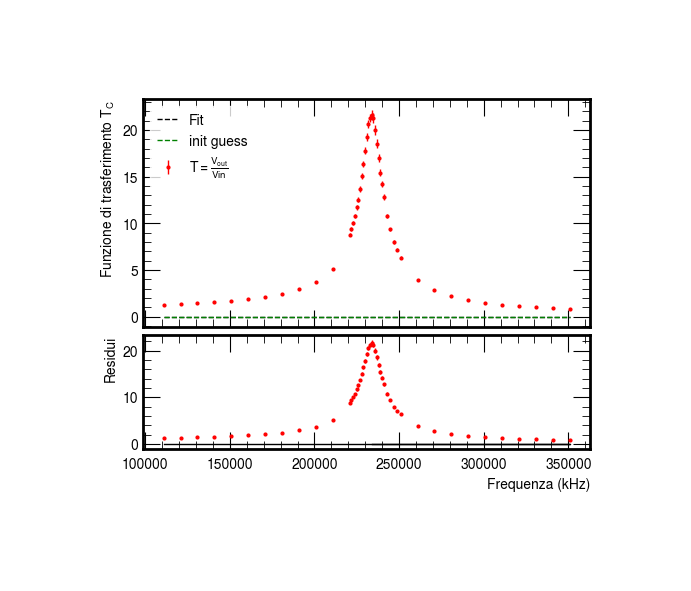
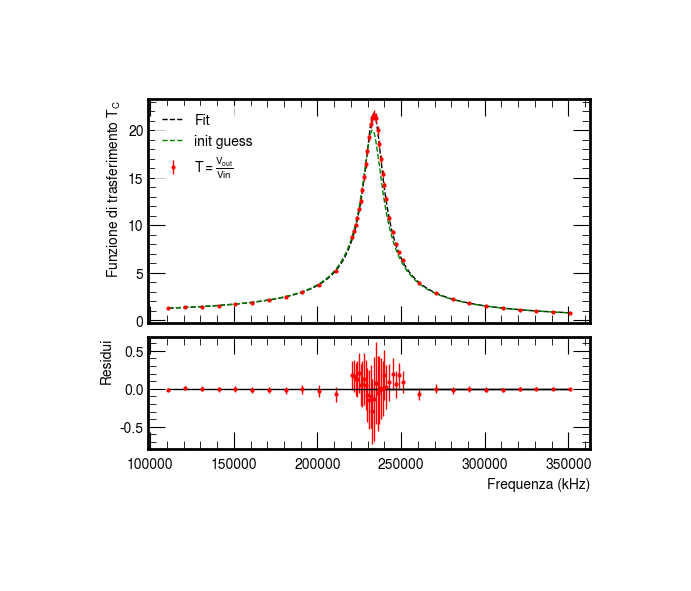
pu

diff --git a/RLC freq/mari/passabasso.py b/RLC freq/mari/passabasso.py
@@ -14,9 +14,9 @@ inputname = 'passabasso.txt'
 
 # 
 
-def fitf_R(x, A_p, B, C):
-    omega = 2.0 * np.pi * x 
-    fitval = A_p / np.sqrt(1+C**2*(omega**2/B**2-B**2/omega**2)**2)
+def fitf_C(x, Av, B, C):
+    omega = 2.0 * np.pi * x
+    fitval = Av / np.sqrt((1-omega**2/B**2)**2+1/C**2*omega**2/B**2)
     return fitval
 
 df = pd.read_csv(inputname, delimiter='\t', decimal='.')
@@ -28,7 +28,6 @@ A = v_out / v_in
 #phi = 2*np.pi*f*np.array(df['Dt_(ns)'].values[:]*1e-9)
 v_fs_in = np.array(df['scala_Vin_(mV)'].values*10**-3)[:]
 v_fs_out = np.array(df['scala_Vout_(V)'].values)[:]
-#phi_fs = 2*np.pi*f*np.array(df['scala_t_(ns)'].values[:]*1e-9)
 
 letturaV = 0.1*0.41
 errscalaV = 0.03*0.41
@@ -37,37 +36,33 @@ eVo = np.sqrt((letturaV * v_fs_out)**2 + (errscalaV * v_out)**2)
 eVin = np.sqrt((letturaV * v_fs_in)**2 + (errscalaV * v_in)**2)
 
 sigma_A = A * np.sqrt((eVo / v_out)**2 + (eVin / v_in)**2)
-phi_errL = 0
+
 f_0 = 235000
 fdelta = max(A)/np.sqrt(2)
 
-#Ainit= 0.95
-#Binit =  2.0 * np.pi *233000.  # Hz
-#Cinit = 10. # Hz
+Avinit= 0.95
+Binit =  2.0 * np.pi *233000.  # Hz
+Cinit = 10. # Hz
 
-
-
-#popt, pcov = curve_fit(fitf_R, f, A, p0=[Ainit, Binit, Cinit], sigma=sigma_A, absolute_sigma=True)
-popt, pcov = curve_fit(fitf_R, f, A, sigma=sigma_A, absolute_sigma=True)
-
+popt, pcov = curve_fit(fitf_C, f, A, p0=[Avinit, Binit, Cinit], sigma=sigma_A, absolute_sigma=True)
+ampiezza, f0_stima, Qvalue = popt
+f0_stima = f0_stima / (2.0 * np.pi) 
 perr = np.sqrt(np.diag(pcov))
-print( ' ampiezza = {a:.3f} +/- {b:.3f} \n omega0 = {c:.1f} +/- {d:.1f} kHz \n Q-valore = {e:.1f} +/- {f:.1f}'.format(a=popt[0], b=perr[0],c=popt[1]/(1000*2*np.pi),d=perr[1]/1000,e=popt[2],f=perr[2]))
+ampiezza_err, f0_stima_err, Qvalue_err = perr
+print( ' ampiezza = {a:.3f} +/- {b:.3f} \n f_0 = {c:.1f} +/- {d:.1f} kHz \n Q-valore = {e:.1f} +/- {f:.1f}'.format(a=ampiezza, b=ampiezza_err,c=f0_stima/(1000), d=f0_stima_err/1000, e=Qvalue, f=Qvalue_err))
 
-
+fit_f = np.linspace(min(f), max(f), 1000)
 plt.errorbar(f, A, yerr=sigma_A, fmt='o',ms=5, color='blue')
 plt.xscale('log')
 plt.yscale('log')
-#plt.plot(f, fitf_R(f, *popt), color='red', lw=1.5, label='fit')
-plt.vlines(f_0, 0, max(A), colors='red', linestyles='--', lw=1.5)
+plt.plot(fit_f, fitf_C(fit_f, *popt), color='red', lw=1.5, label='fit')
+plt.vlines(f0_stima, 0, max(A), colors='red', linestyles='--', lw=1.5)
 plt.hlines(fdelta, min(f), max(f), colors='green', linestyles='--', lw=1.5)
-#plt.errorbar(f, phi, yerr=phi_errL, fmt='o',ms=2,color='green')
 
 plt.show()
+
 
 plt.errorbar(f, v_in, yerr=sigma_A, fmt='o',ms=5, color='blue', label='Vin')
 plt.errorbar(f, v_out, yerr=sigma_A, fmt='o',ms=5, color='red', label='Vout')
 plt.legend()
-plt.show()
-
-#plt.errorbar(f, phi, yerr=sigma_A, fmt='o',ms=5, color='blue')
 plt.show()
